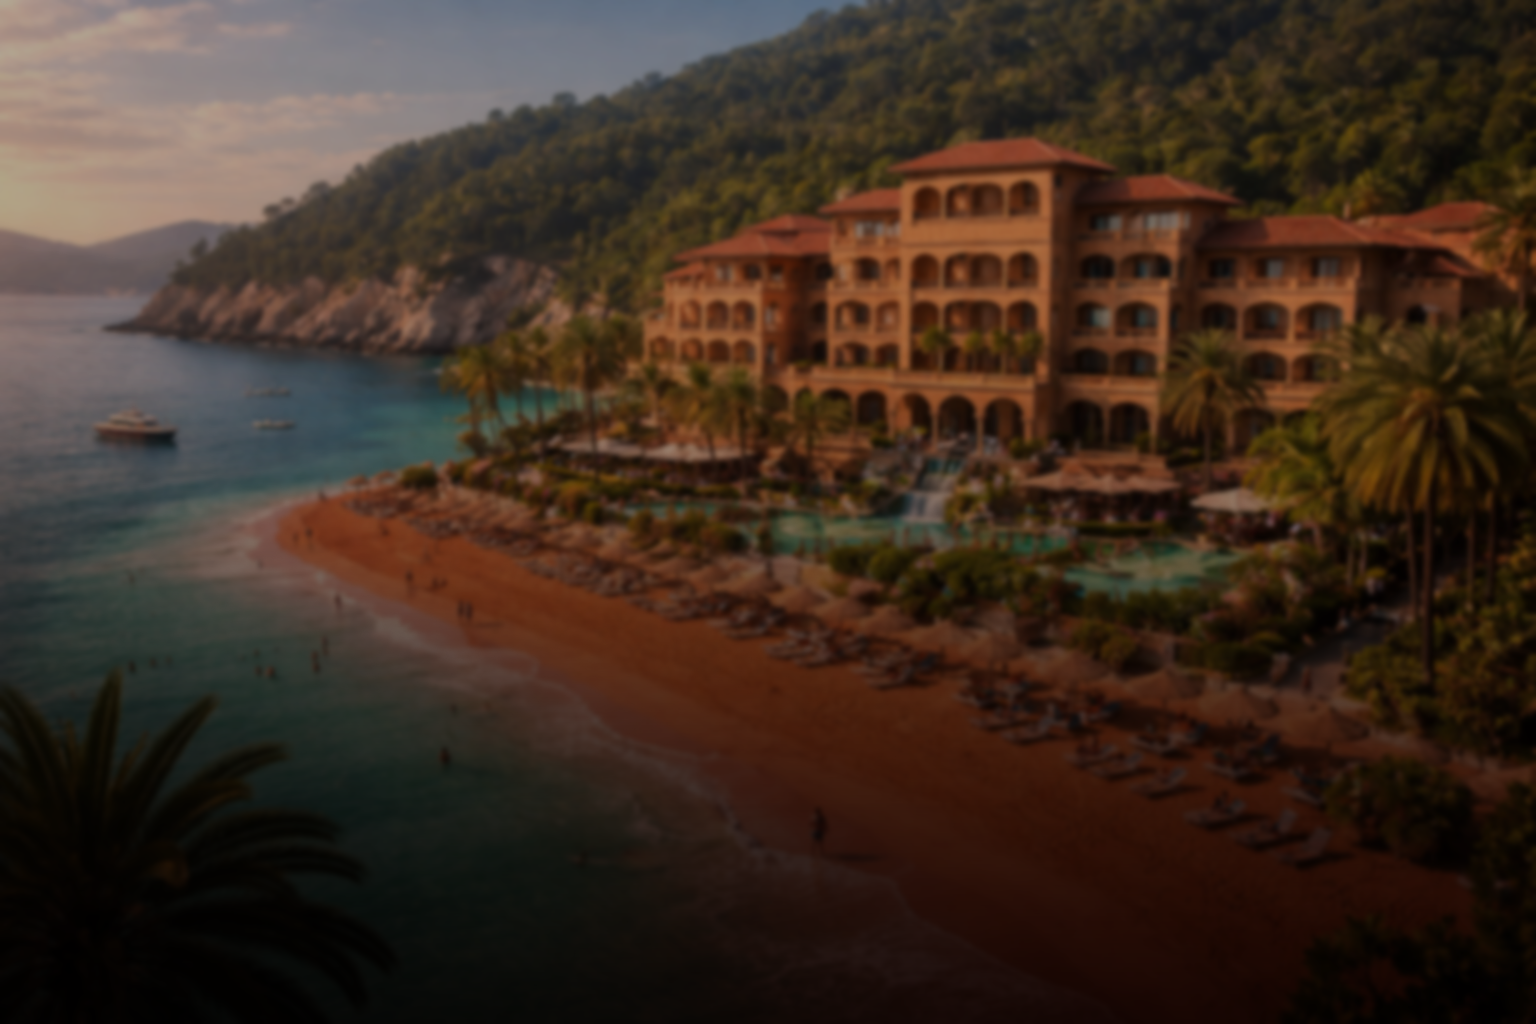
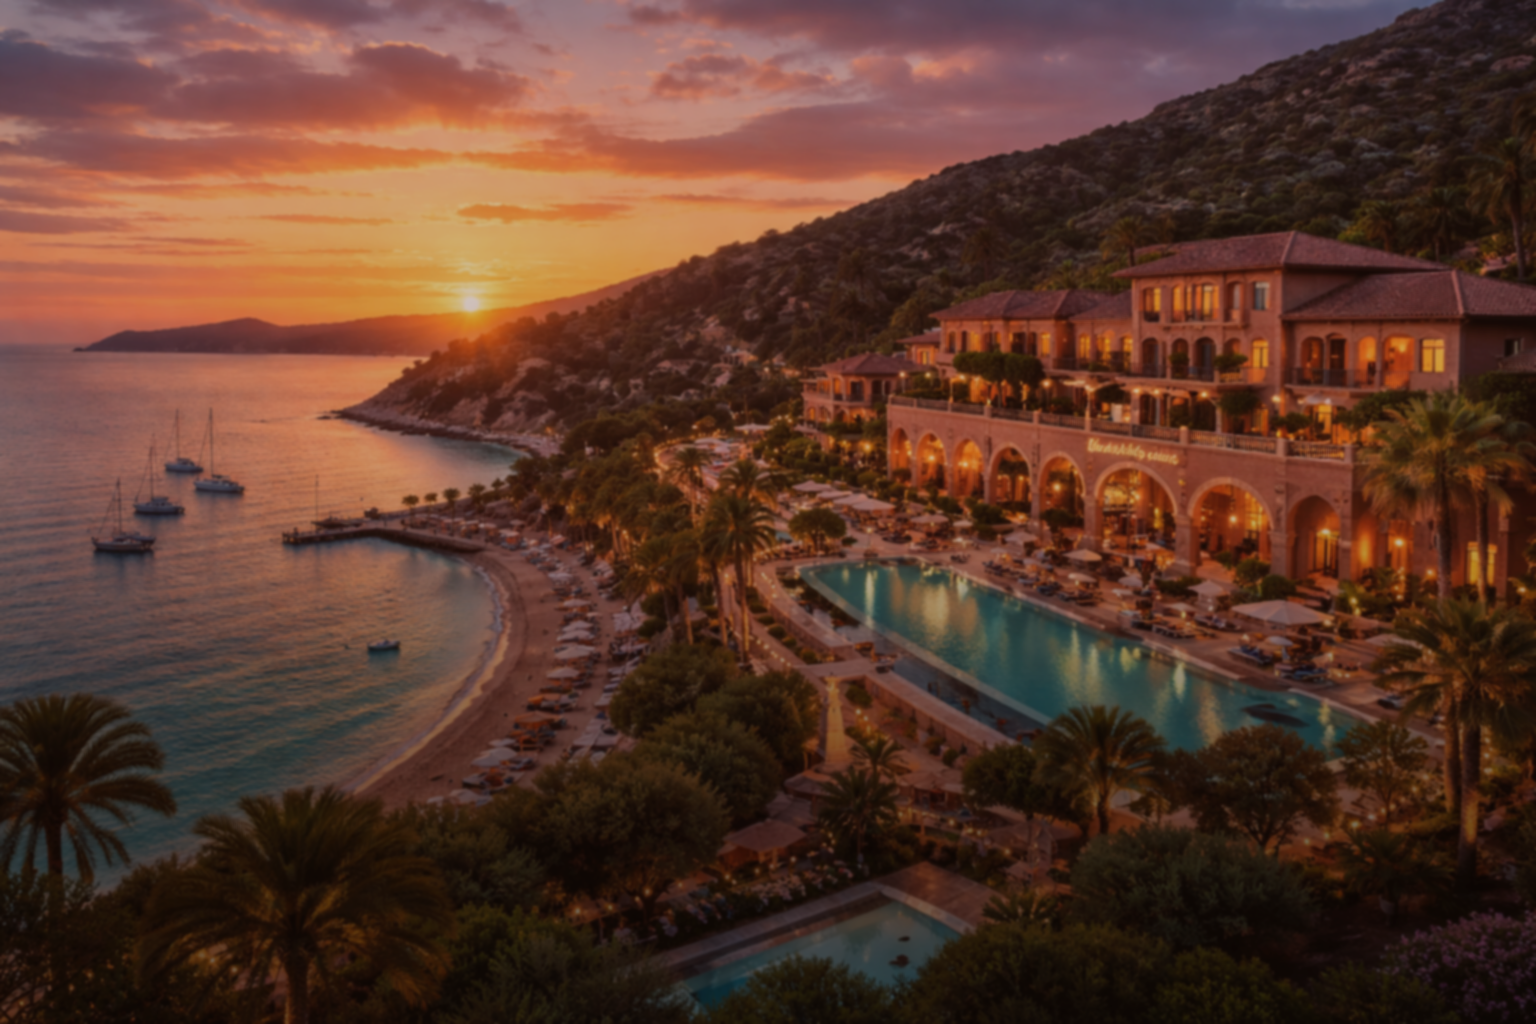
Hover effect for buttons and new hero img

diff --git a/src/styles/style.css b/src/styles/style.css
@@ -35,6 +35,9 @@
   --space-xl: 2em;
   --space-2xl: 2.5em;
 }
+.material-symbols-outlined {
+  font-variation-settings: "FILL" 1, "wght" 400, "GRAD" 0, "opsz" 24;
+}
 * {
   box-sizing: border-box;
 }
@@ -89,33 +92,71 @@ h6,
 .cost-display {
   text-transform: uppercase;
 }
-.btn {
-  color: var(--light-color);
-  background-color: var(--cta-color);
-  padding: var(--space-md) var(--space-xl);
-  border-radius: var(--space-xl);
-  border: none;
-  font-weight: 600;
-  font-size: var(--fs-base);
+
+/* Material bubble effect BUTTONS */
+.btn-effect {
+  position: relative;
+  display: inline-block;
+  padding: 1em 2em;
+  text-transform: uppercase;
   text-decoration: none;
-  cursor: pointer;
-}
-.btn-white {
   color: var(--font-color);
-  background-color: var(--light-color);
-}
-.action-btn {
-  padding: var(--space-sm) var(--space-xl);
-  align-self: flex-end;
-}
-.a-link {
-  color: var(--cta-color);
+  background-color: transparent;
+  border-radius: 3em;
+  overflow: hidden;
+  transition: color 0.3s, transform 0.2s;
   font-weight: 600;
-  display: flex;
-  align-items: center;
-  text-underline-offset: var(--space-sm);
-  margin: var(--space-sm) 0;
-  text-align: right;
+}
+/* Press effect */
+.btn-effect:active {
+  transform: translateY(3px);
+}
+.material-bubble::before {
+  content: "";
+  position: absolute;
+  inset: 0;
+  border: 0.15em solid var(--primary-color);
+  border-radius: 3em;
+  transition: opacity 0.3s;
+}
+.material-bubble:hover::before {
+  opacity: 1;
+}
+.material-bubble::after {
+  content: "";
+  position: absolute;
+  width: 17em;
+  height: 12.5em;
+  background-color: var(--primary-color);
+  border-radius: 50%;
+  top: 0;
+  left: 0;
+  transform: translate(-10px, -70px) scale(1);
+  opacity: 1;
+  z-index: -1;
+  transition: transform 0.3s ease, opacity 0.3s ease;
+}
+/* Hover state */
+.material-bubble:hover {
+  color: var(--light-color);
+}
+.material-bubble:hover::after {
+  opacity: 0;
+  transform: translate(-10px, -70px) scale(0);
+}
+/* Edit for offers - color flipped. */
+.a-link {
+  padding: 0.8em 1.2em;
+  color: var(--light-color);
+}
+.a-link::before {
+  border: 0.15em solid var(--font-color);
+}
+.a-link::after {
+  background-color: var(--font-color);
+}
+.a-link:hover {
+  color: var(--font-color);
 }
 .r-page {
   position: relative;
@@ -161,7 +202,7 @@ nav {
   margin-bottom: 5em;
 }
 .star-container span {
-  font-size: 3em;
+  font-size: 2.5em;
 }
 .header-overlay,
 .r-item img,
@@ -428,6 +469,9 @@ nav,
   text-transform: lowercase;
   font-size: var(--fs-small);
   color: var(--medium-grey-color);
+}
+.form-tip {
+  font-size: var(--fs-medium);
 }
 .form-section {
   padding: var(--space-md);

diff --git a/view/booking.php b/view/booking.php
@@ -40,7 +40,9 @@ $featuresInfo = $query->fetchAll(PDO::FETCH_ASSOC);
 <body>
     <img class="sub-bg" src="../assets/images/terracotta-hotel.png">
     <main>
-        <a class="btn btn-white " href="../index.php">Return to main page</a>
+        <div class="btn-container">
+            <a class="btn-effect material-bubble" href="../index.php">Return to main page</a>
+        </div>
         <section class="booking-section">
             <aside class="aside-container">
                 <div>
@@ -48,7 +50,8 @@ $featuresInfo = $query->fetchAll(PDO::FETCH_ASSOC);
                 </div>
                 <div>
                     <h2>Discount</h2>
-                    <p>Returning guests receive a $2 discount! Make sure to book using your name.</p>
+                    <p>Returning guests receive a $2 discount!</p>
+                    <p>Applies when booked using the same name.</p>
                 </div>
             </aside>
 
@@ -78,7 +81,10 @@ $featuresInfo = $query->fetchAll(PDO::FETCH_ASSOC);
 
                     <!-- Display booking form -->
                     <?php require __DIR__ . '/components/booking-form.php'; ?>
-
+                    <div class="form-tip">
+                        <span class="field-req">*</span>
+                        Field is required
+                    </div>
                 </div>
             </article>
         </section>

diff --git a/view/components/form/payment.php b/view/components/form/payment.php
@@ -26,7 +26,6 @@
         <label for="api_key">
             Enter your API-Key
             <span class="field-req">*</span>
-            <span class="field-req-tip">(required)</span>
         </label>
         <input type="text"
             id="api_key"
@@ -38,12 +37,11 @@
         <label for="transfer_code">
             Enter your TransferCode
             <span class="field-req">*</span>
-            <span class="field-req-tip">(required)</span></label>
-        <input
-            type="text"
-            id="transfer_code"
-            name="transfer_code"
-            placeholder="uuid-transfer-code">
+            <input
+                type="text"
+                id="transfer_code"
+                name="transfer_code"
+                placeholder="uuid-transfer-code">
     </div>
 </div>
 

diff --git a/view/metadata/head.php b/view/metadata/head.php
@@ -10,6 +10,7 @@
     <link href="https://fonts.googleapis.com/css2?family=DM+Sans:ital,opsz,wght@0,9..40,100..1000;1,9..40,100..1000&family=Fraunces:ital,opsz,wght@0,9..144,100..900;1,9..144,100..900&display=swap" rel="stylesheet">
 
     <link rel="stylesheet" href="https://fonts.googleapis.com/css2?family=Material+Symbols+Outlined:opsz,wght,FILL,GRAD@20..48,100..700,0..1,-50..200" />
+    <link rel="stylesheet" href="https://fonts.googleapis.com/css2?family=Material+Symbols+Outlined:opsz,wght,FILL,GRAD@24,400,1,0&icon_names=star" />
 
     <link rel="stylesheet" href="../src/styles/style.css">
     <title>Terracotta Bay Hotel</title>

diff --git a/view/components/offers.php b/view/components/offers.php
@@ -33,7 +33,7 @@ if (!empty($offers)) {
                                 Discount - $<?php echo $offer['discount_value']; ?>
                             </p>
                         </div>
-                        <a class="a-link" href="./view/booking.php?room_id=<?php echo $offer['included_room']; ?>&offer_id=<?php echo $offer['id']; ?>">
+                        <a class="btn-effect material-bubble a-link" href="./view/booking.php?room_id=<?php echo $offer['included_room']; ?>&offer_id=<?php echo $offer['id']; ?>">
                             Explore this package</span>
                         </a>
                     </div>

diff --git a/view/components/form/dates.php b/view/components/form/dates.php
@@ -5,7 +5,6 @@
                 <label for="arrival_date">
                     Arrival
                     <span class="field-req">*</span>
-                    <span class="field-req-tip">(required)</span>
                 </label>
                 <input
                     type="date"
@@ -21,7 +20,6 @@
                 <label for="departure_date">
                     Departure
                     <span class="field-req">*</span>
-                    <span class="field-req-tip">(required)</span>
                 </label>
                 <input
                     type="date"

diff --git a/view/components/navigation.php b/view/components/navigation.php
@@ -1,8 +1,8 @@
 <nav>
     <menu>
         <li class="nav-list">
-            <a class="btn nav-item" href=".#event-section">Explore offers</a>
-            <a class="btn nav-item" href=".#main-r-section">Book now</a>
+            <a class="btn-effect material-bubble" href=".#event-section">Explore offers</a>
+            <a class="btn-effect material-bubble" href=".#main-r-section">Book now</a>
         </li>
     </menu>
 </nav>
